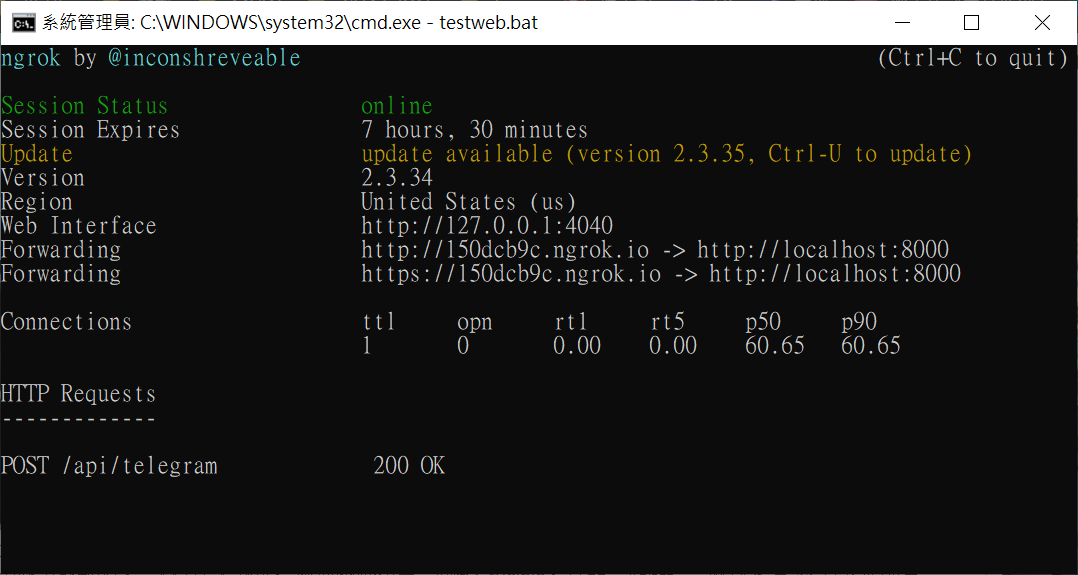
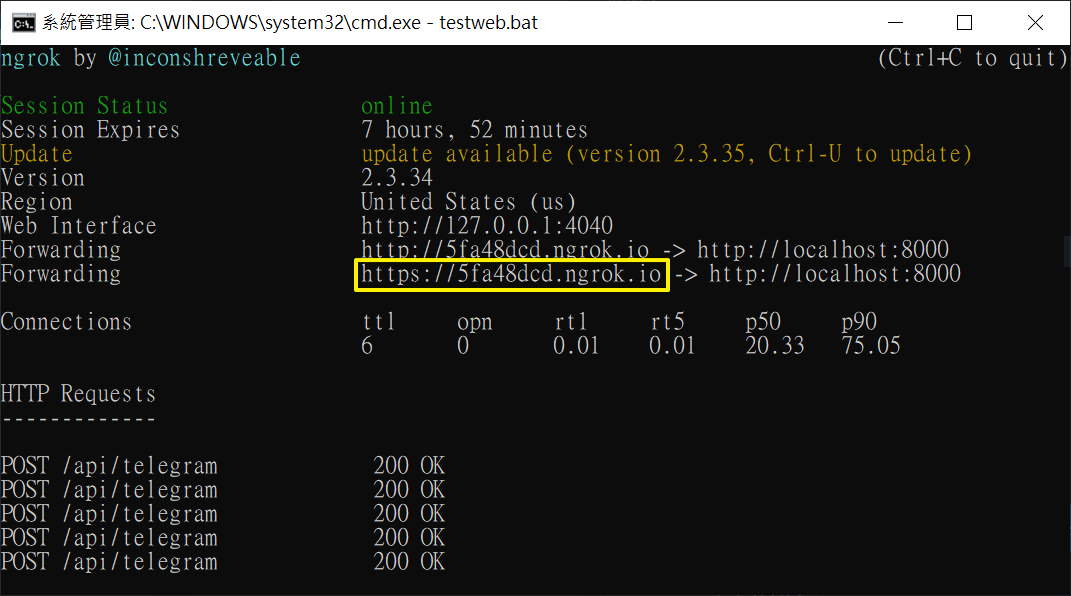
done

diff --git a/README.md b/README.md
@@ -1,6 +1,5 @@
 
 # 建立Telegram ChatBot in Django2.0
-***
 ### 前言:
 >本篇內容需要以下的材料:
 >>  * python 3.6以上
@@ -8,27 +7,60 @@
 >>  * 下載 Ngrok
 >>  * 申請 Heroku 帳號 & 安裝 Heroku CLI
 >>  * 申請 Telegram Bot
+
  ### 快速懶人包:
-直接使用本篇的範例程式:
+直接使用本篇的範例程式:(source code here)
 
     $ git clone https://github.com/rs6000/01TelegramBotQuickStart.git
     $ cd mysite
     $ pip install -r requirements.txt
+
 填入TelegramBot的token:
 
     # mysite/myapp/views.py
     bot=telebot.TeleBot('請輸入你的token!!!')
-    
+
 執行Ngrok取得測試用網址:
 
-![圖片1](https://github.com/rs6000/01TelegramBotQuickStart/blob/master/src/md01_01.png)
+![圖片1](https://smilehsu.cc/wp-content/uploads/2020/05/9d8168520a8a904fd7a09390d8e77f40.png)
 
 設定Telegram Bot所需的webhook:
 
-![圖片2](https://github.com/rs6000/01TelegramBotQuickStart/blob/master/src/md01_02.png)
+    格式:
+    https://api.telegram.org/bot{TOKEN}/setwebhook?url={URL}
+
+    本篇範例所使用的網址格式:
+    https://api.telegram.org/bot{TOKEN}/setwebhook?url={URL}/api/telegram
+
+    把token跟Ngrok給的網址複製貼上到上面的格式中，再把整串貼到瀏覽器上
+    開啟。正確的話會得到回應如下:
+    {"ok":true,"result":true,"description":"Webhook was set"}
+
+    ps:如果之前已經設定過webhook，請先刪除舊的再換上新的。Ngrok每次
+    的網址都是不同的。
+
+    格式:
+    https://api.telegram.org/bot{$token}/deleteWebhook
+
+    輸入正確會得到下面的回應:
+    {"ok":true,"result":true,"description":"Webhook was deleted"}
 
 打開Telegram Bot對話視窗 & 測試:
 
-![圖片3](https://github.com/rs6000/01TelegramBotQuickStart/blob/master/src/md01_03.PNG)
+![圖片2](https://smilehsu.cc/wp-content/uploads/2020/05/c7a7dc02ff6507856d29a2847f092200.png)
 
+### 最後:
+如果電腦內已經有安裝python &編輯器的話，把這篇提供範例檔
+下載到電腦，建立環境到測試Telegram ChatBot，應該不超過10分鐘
+網路上有很多Telegram ChatBot的範例(Python版)
+但大多是單檔或用Flask。用Telegram + Django
+相關的關鍵字在Google底下，找不到適合起步的範例
+...最後在Youtube看到教學影片，才把內容寫成這篇。
 
+剩下佈署到Heroku的內容留到下篇文章。
+
+---
+### Reference:
+- [ heroku-deploy-django-telegrambot-webhook](https://www.youtube.com/watch?v=bWDKUl1OgJk) 作者來自烏茲別克
+- [pyTelegramBotAPI](https://github.com/eternnoir/pyTelegramBotAPI) 本篇所使用的套件，範例程式就很好用了
+- [Python Telegram Bot 機器人 教學文章](https://bit.ly/2WcSmH2) 使用Flask
